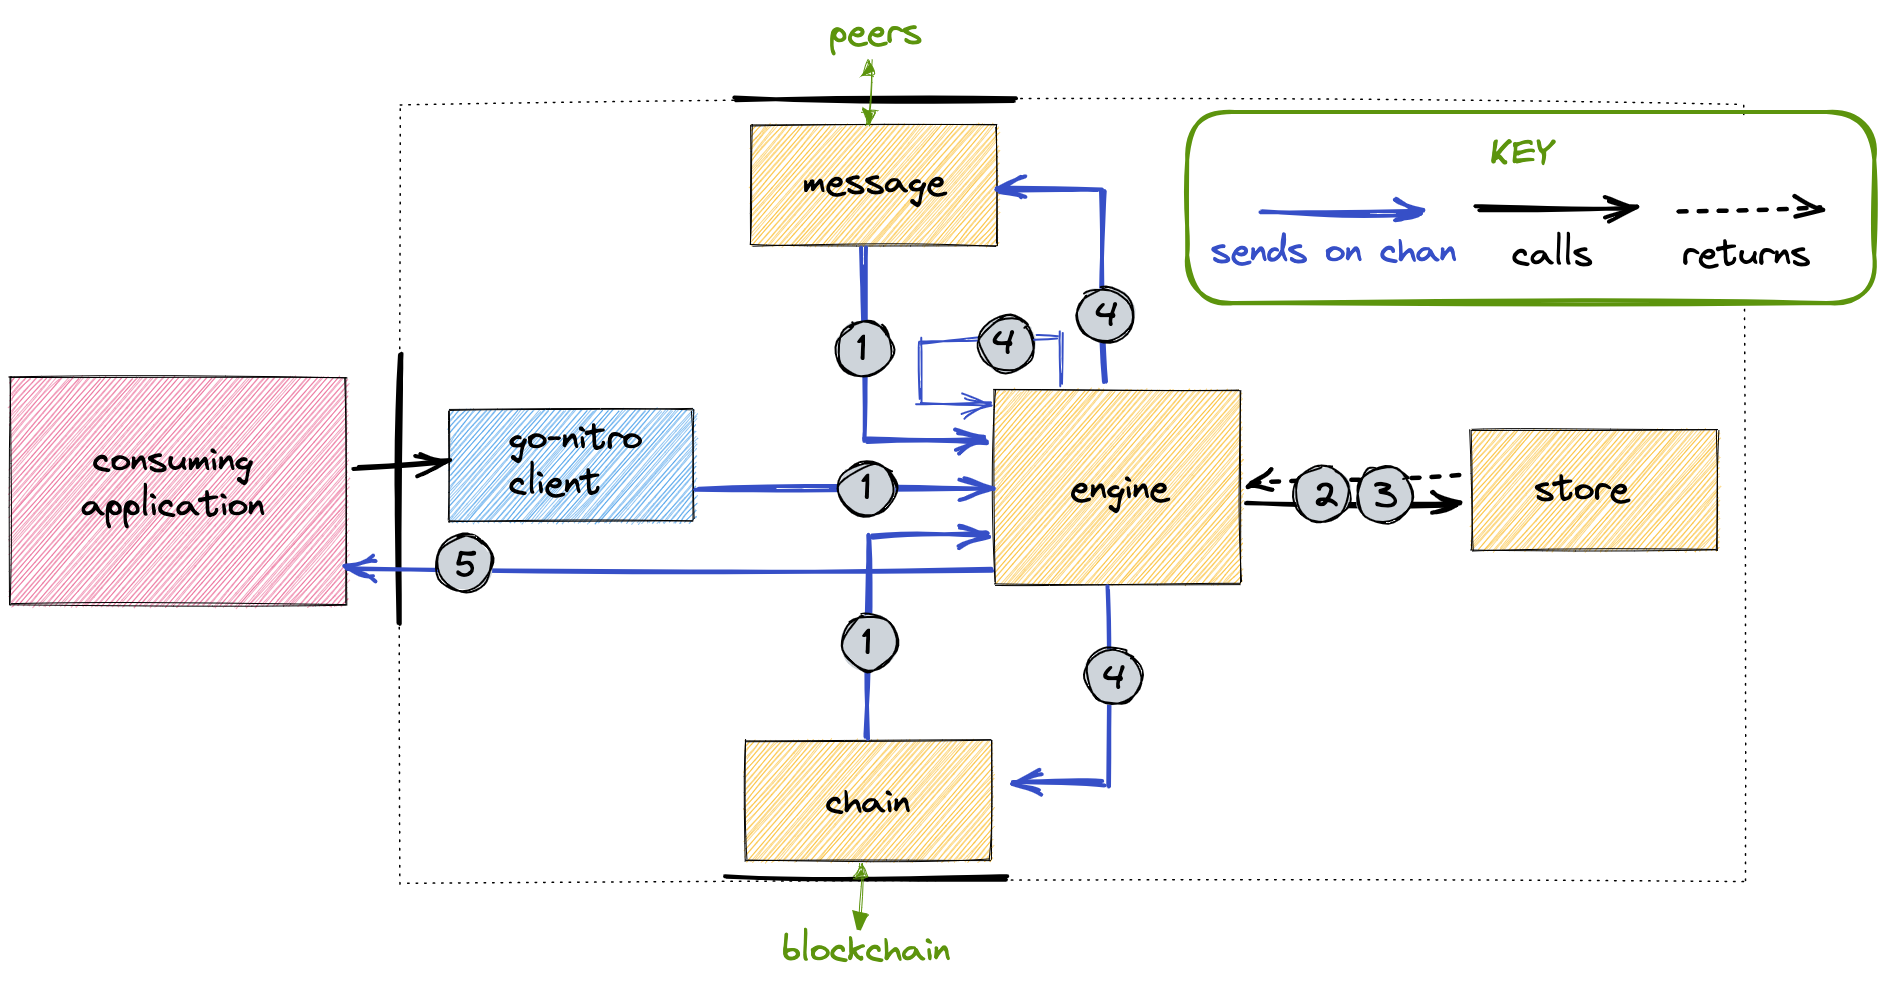
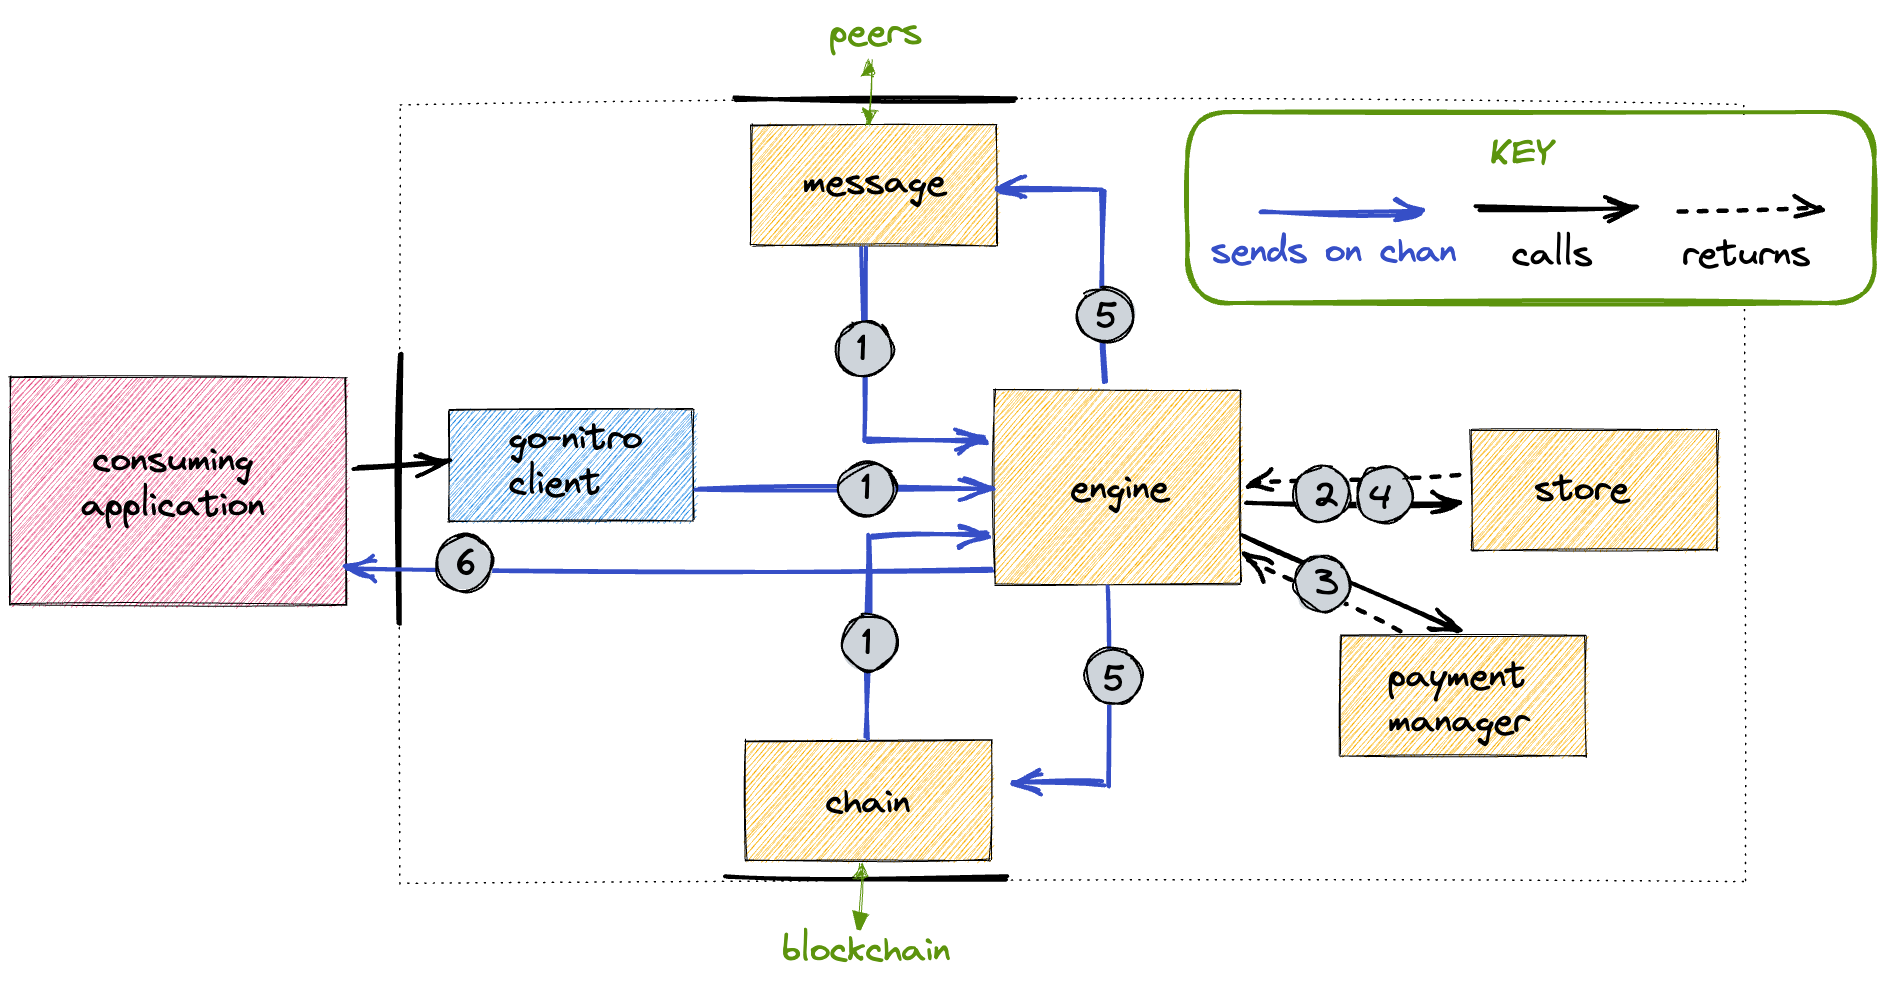
update diagram

diff --git a/client/readme.md b/client/readme.md
@@ -11,15 +11,16 @@ The flow of data through the client is shown in this diagram:
    - the `message` service
    - the `chain` service.
 2. The engine reads channels and objectives from the `store`, and computes updates and side effects.
-3. The updates arre committed to the `store`.
-4. The side effects are sent on go channels to:
+3. The engine reads payments the `payment manager`, and computes updates and side effects.
+4. The updates are committed to the `store`.
+5. The side effects are sent on go channels to:
    - the `message` service
    - the `chain` service
    - _back_ to the `engine` (e.g. when an update declares further progress can be made)
-5. The consuming application is informed about updates
+6. The consuming application is informed about updates
 
 The `chain` and `message` services are responsible for communicating with the blockchain and with counterparties (respectively).
 
 ---
 
-[Click here to edit the diagram](https://excalidraw.com/#json=boyMvd14JkaqjD3cRSg0s,xnxQRDKynDM-h28-cWq2mA)
+[Click here to edit the diagram](https://excalidraw.com/#json=eudWpYVNSU6KbkGFFZIvf,6zd-MrLFwRyo5mft3fm1XA)
